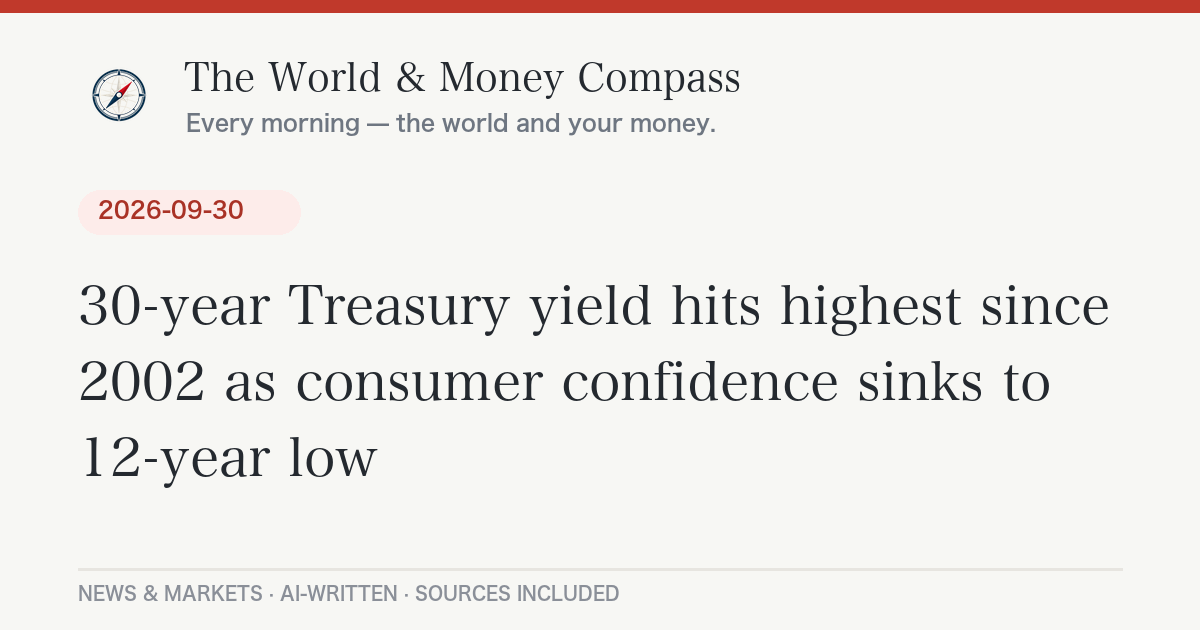
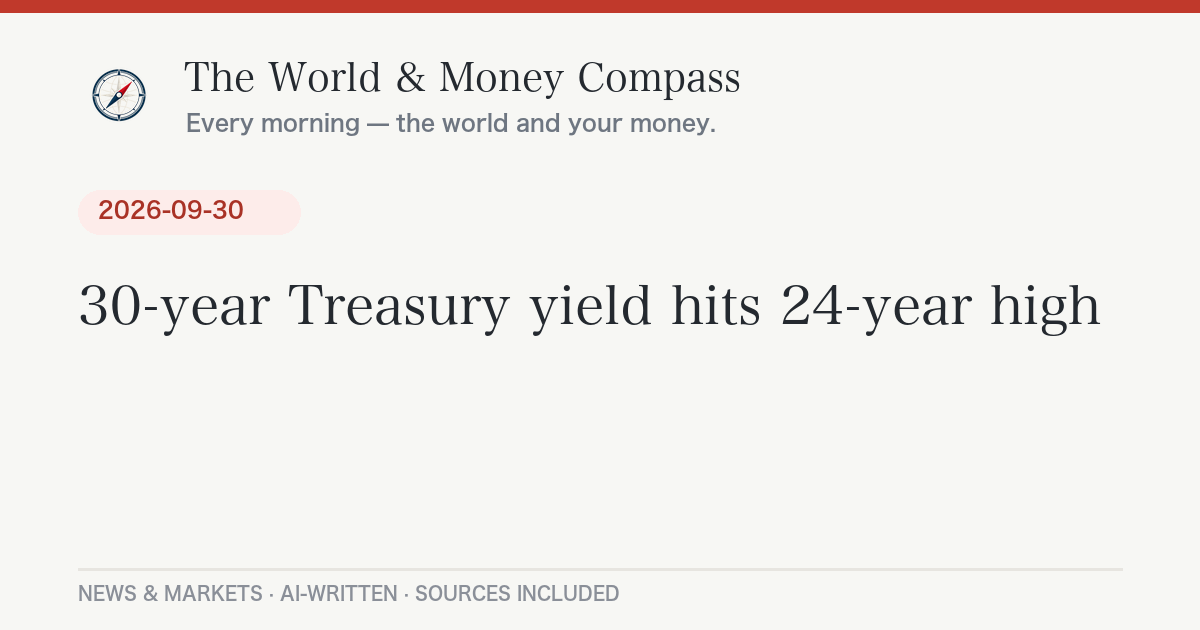
Daily briefing 2026-10-02

Changed region(s): [[0.0617, 0.573, 0.8942, 0.6333], [0.6475, 0.4524, 0.925, 0.5429], [0.0617, 0.6937, 0.3083, 0.754]]

diff --git a/_posts/2026-10-02-daily-briefing.md b/_posts/2026-10-02-daily-briefing.md
@@ -1,0 +1,107 @@
+---
+layout: post
+lang: ja
+title: "日経平均2203円高の6万8956円、米長期金利は2002年以来の高水準｜10月2日のニュースとお金"
+date: 2026-10-02 07:41:24 +0900
+categories: [ニュース, 経済]
+headline: "日経平均2203円高の6万8956円、米長期金利は2002年以来の高水準"
+permalink: /2026/10/02/daily-briefing/
+---
+
+## 今日のポイント
+
+10月最初の取引日、日経平均は半導体株に引っ張られて2,203円の大幅高となり、6万8,956円で取引を終えました。一方、米国では長期金利が一時2002年以来の高さまで上がり、英国やフランスでも国債が売られる「世界的な金利高」が続いています。株は強いのに金利も高い——そんなちぐはぐな状態が目立つ一日でした。
+
+## 今日の羅針盤（Compass Insight）
+
+きのうの相場で印象的だったのは、株と債券がまったく違う景色を見ていることです。日経平均は半導体関連の買いで2,000円を超える上げ幅になり、米国でもマイクロンの好決算を受けてハイテク株が持ち直しました。その一方で、米10年債利回りは一時5.34%と2002年以来の水準に達し、英国の30年債も1998年以来の6%に乗せました。AIという強い成長の物語が株を支える一方、原油高や各国の財政不安が「お金を借りるコスト」を押し上げている構図です。
+
+家計への影響で見ると、まず身近なのは10月1日から変わった暮らしのルールです。ビールの酒税が下がって店頭価格が下がる一方、第三のビールや発泡酒は値上がり方向です。また、世界的な金利高は、日本の固定型住宅ローン金利にも上向きの力をかけやすい状況です。円は1ドル158円前後と円安が続き、原油が再び値上がりすればガソリン代や電気代にも響きやすい状況です。
+
+短期では、今夜発表予定の米雇用統計と、それを受けた長期金利の動きに注目です。中長期では、米国とイランの交渉が行き詰まっているように見える中で、ホルムズ海峡と原油の供給がどうなるか、そして日銀短観で見えた「足元は良いが先行きは慎重」という企業の見方が、10月の日銀会合の判断にどうつながるかがポイントになりそうです。
+
+## 今日のニュース
+
+### 日本
+
+- **日銀短観、大企業製造業は6期連続の改善**：日銀が1日発表した9月の短観で、大企業・製造業の景況感はプラス24と、前回から2ポイント上がり[6四半期連続で改善](https://www.nikkei.com/article/DGXZQOUB299ZG0Z20C26A9000000/)しました。データセンターなどAI関連の需要がけん引しています。ただ予想（プラス25）には届かず、非製造業はプラス35と悪化、先行きはいずれも慎重な見方となりました（[時事ドットコム](https://www.jiji.com/jc/article?k=2026100100272&g=eco)／[OANDA](https://www.oanda.jp/lab-education/market_news/tankan-sep-2026-review/)）。
+- **10月1日から暮らしのルールが変わる**：ビール・発泡酒・第三のビールの酒税が350ミリリットルあたり54.25円に一本化され、ビールは9.1円の減税、発泡酒と第三のビールは増税になりました（[Yahoo!ニュース／ABCニュース](https://news.yahoo.co.jp/articles/33e16e04dec25b08bdbf40e1fae634d60168b198)）。年収「106万円の壁」の撤廃なども[10月1日から](https://www.nikkei.com/article/DGXZQOUA2817H0Y6A920C2000000/)実施されています。
+- **「副首都」の要件案、人口の1.2%以上**：政府がまとめた「副首都」指定の要件案に、全国の人口の1.2%以上の都市とすることが盛り込まれ、札幌・名古屋・大阪・福岡の[4市が満たす](https://news.web.nhk/newsweb/na/nd-20261002de53765)ことがわかりました。
+
+### 世界
+
+- **米国とイランの協議が停滞**：米政府関係者によると、ルビオ国務長官がアラグチ外相らイラン代表団に米国からの退去を命じました。イラン側は「出発は前から決まっていた」と[米側の説明を否定](https://www.iranintl.com/en/202610015558)しています（[Al Arabiya](https://english.alarabiya.net/News/middle-east/2026/10/01/rubio-ordered-iranian-delegation-to-leave-the-country-including-araghchi-report-)）。
+- **中国が燃料の輸出を停止**：中国の製油会社が、香港・マカオ以外への石油製品の輸出を当面停止しました。もともと戦争で品薄の世界の燃料市場がさらに引き締まるとの見方から、[原油価格が上昇](https://www.rte.ie/news/business/2026/1001/1593591-world-oil-prices/)しました。
+
+### アメリカ
+
+- **長期金利が一時5.34%に**：米10年債利回りは一時5.342%と、[2002年以来の高水準](https://qz.com/us-treasury-yield-highest-since-2002-bond-selloff-100126)をつけました。その後は5.24%程度まで下がり、株価は小幅高で引けました（[Yahoo Finance](https://finance.yahoo.com/markets/live/stock-market-today-thursday-oct-1-dow-sp-500-nasdaq-080602402.html)）。
+- **景気指標は底堅い**：9月のISM製造業景況指数は54.5と拡大を示し、新規失業保険申請件数は19万7,000件と4週連続で減りました。一方、仕入れ価格指数は77.9と上昇し、物価の圧力も残っています（[Yahoo Finance](https://finance.yahoo.com/markets/live/stock-market-today-thursday-oct-1-dow-sp-500-nasdaq-080602402.html)）。
+- **ナイキ、売上高4%減**：ナイキの6〜8月期決算は、売上高が[112億ドル](https://www.businesswire.com/news/home/20261001788082/en/NIKE-Inc.-Reports-Fiscal-2027-First-Quarter-Results)と前年同期比4%減でした。中国と欧州・中東などでの落ち込みが響き、北米は伸びました。
+
+### ヨーロッパ
+
+- **欧州でも国債売りが広がる**：英国の30年債利回りが1998年以来となる6%に達し、10年債も5.51%と2007年以来の水準に。英FTSE100は1.7%下落しました。フランスの10年債も4.94%と2002年以来の高さです（[Rio Times](https://www.riotimesonline.com/europe-intelligence-brief-thursday-october-1-2026/)）。
+- **ドイツの物価上昇率3.3%**：ドイツの9月の消費者物価は前年比3.3%と、8月の2.9%から加速し、2023年12月以来の高い伸びになりました。エネルギー価格は14.9%上がっています（[Rio Times](https://www.riotimesonline.com/europe-intelligence-brief-thursday-october-1-2026/)）。
+
+## 経済とお金の動き
+
+### 世界の経済と原油・相場
+
+| 指標 | 値 | 前日比 |
+|---|---|---|
+| 日経平均株価（10/1終値） | [68,956.72円](https://www.zaikei.co.jp/article/20261001/871968.html) | <span class="chg-up">+2,203.00円（+3.30%）</span> |
+| NYダウ（10/1終値） | [50,926.56ドル](https://finance.yahoo.com/markets/live/stock-market-today-thursday-oct-1-dow-sp-500-nasdaq-080602402.html) | <span class="chg-up">+20.51ドル（+0.04%）</span> |
+| S&P500（10/1終値） | [7,666.45](https://finance.yahoo.com/markets/live/stock-market-today-thursday-oct-1-dow-sp-500-nasdaq-080602402.html) | <span class="chg-up">+14.91（+0.19%）</span> |
+| ナスダック総合（10/1終値） | [26,871.60](https://finance.yahoo.com/markets/live/stock-market-today-thursday-oct-1-dow-sp-500-nasdaq-080602402.html) | <span class="chg-up">+10.53（+0.04%）</span> |
+| WTI原油（10/1） | [約92ドル/バレル](https://www.rte.ie/news/business/2026/1001/1593591-world-oil-prices/) | <span class="chg-up">+1.67ドル（+1.9%）</span> |
+| 北海ブレント（12月限、10/1） | [約101ドル/バレル](https://www.rte.ie/news/business/2026/1001/1593591-world-oil-prices/) | <span class="chg-up">+3.02ドル（+3%）</span> |
+| 米10年債利回り（10/1） | [5.24%](https://finance.yahoo.com/markets/live/stock-market-today-thursday-oct-1-dow-sp-500-nasdaq-080602402.html) | <span class="chg-down">-0.06ポイント</span> |
+| ドル円（ECB参照、10/1基準） | [157.98円](https://api.frankfurter.app/latest?from=USD&to=JPY) | <span class="chg-up">+0.98円（円安）</span> |
+
+※原油は取引時間中の値で、報道により時点が異なります。
+
+世界の市場では「金利」が主役です。米国・英国・フランスで長期金利がそろって数十年ぶりの水準に上がり、債券が世界的に売られています。そこへ中国の燃料輸出停止が加わり、北海ブレントは再び1バレル100ドル台に乗せました。原油高は物価を押し上げ、物価高は金利を押し上げる——この連鎖が続くかどうかが、当面の相場の大きな分かれ目です。
+
+### アメリカの経済
+
+米国の株価は、朝方は金利上昇で下げたものの、金利がピークから下がると持ち直し、3指数そろって小幅高で終えました。景気の数字は強く、失業保険の申請は減り、製造業も拡大しています。ただ、景気が強いほど「利上げはまだ終わらないのでは」という見方も強まりやすく、今夜の雇用統計が強すぎると金利が再び上がる可能性があります。
+
+### 日本の経済
+
+日経平均は、前日の米国でハイテク株が堅調だった流れを受けて、半導体関連を中心に大きく上げました。値上がりしたのは電気機器や精密機器、情報・通信で、石油・石炭製品や銀行、保険は下げました（[財経新聞](https://www.zaikei.co.jp/article/20261001/871968.html)）。値上がり銘柄と値下がり銘柄の数はほぼ半々で、上げ幅のわりに「一部の大型ハイテク株が指数を押し上げた」相場でした。短観では企業の景況感は良いものの、先行きは慎重で、日銀が10月に追加利上げに動くかどうかの判断材料として注目されます。
+
+## 今日の注目銘柄・セクター
+
+- **半導体関連（アドバンテスト、東京エレクトロン、キオクシアHDなど）**：米国の物価指標の落ち着きと、ナスダックの堅調さを受けて買われ、日経平均の大幅高をけん引しました（[財経新聞](https://www.zaikei.co.jp/article/20261001/871968.html)）。
+- **マイクロン（米）**：前日に発表した好決算と強い見通しを受けて上昇し、半導体株全体の支えになりました（[Yahoo Finance](https://finance.yahoo.com/markets/live/stock-market-today-thursday-oct-1-dow-sp-500-nasdaq-080602402.html)）。
+- **ビール大手（アサヒ、キリン、サッポロ）**：10月1日の酒税一本化で、主力ビールの値下げや第三のビールの「ビール化」に動いており、販売の構図が変わるかが注目されます（[日本経済新聞](https://www.nikkei.com/article/DGXZQOUC212KR0R20C26A8000000/)）。
+- **米銀行株**：金利の急上昇を受けて、KBW銀行株指数は0.7%下落しました（[Yahoo Finance](https://finance.yahoo.com/markets/live/stock-market-today-thursday-oct-1-dow-sp-500-nasdaq-080602402.html)）。
+
+*※特定銘柄の売買を推奨するものではありません。投資判断はご自身の責任で。*
+
+## まとめ：注目の3つ
+
+1. **今夜の米雇用統計**：強すぎる結果なら、2002年以来の水準にある長期金利がさらに上がる可能性。
+2. **原油と中国の燃料輸出停止**：ブレントは再び100ドル台。ガソリン・電気代など家計への波及に注意。
+3. **日銀の10月会合**：短観は「足元は良いが先行きは慎重」。追加利上げの判断に注目。
+
+---
+<div class="post-sources" markdown="1">
+
+**出典：**
+- [日本経済新聞・大企業製造業の景況感、6四半期連続改善 日銀9月短観](https://www.nikkei.com/article/DGXZQOUB299ZG0Z20C26A9000000/)
+- [時事ドットコム・製造業景況感、6期連続改善](https://www.jiji.com/jc/article?k=2026100100272&g=eco)
+- [日本経済新聞・10月1日こう変わる](https://www.nikkei.com/article/DGXZQOUA2817H0Y6A920C2000000/)
+- [NHK・「副首都」要件案判明](https://news.web.nhk/newsweb/na/nd-20261002de53765)
+- [財経新聞・日経平均は大幅続伸](https://www.zaikei.co.jp/article/20261001/871968.html)
+- [Yahoo Finance・Stock market today Oct. 1](https://finance.yahoo.com/markets/live/stock-market-today-thursday-oct-1-dow-sp-500-nasdaq-080602402.html)
+- [Quartz・U.S. 10-year Treasury yield hits highest level since 2002](https://qz.com/us-treasury-yield-highest-since-2002-bond-selloff-100126)
+- [RTÉ・Oil prices rise $3 as China suspends fuel exports](https://www.rte.ie/news/business/2026/1001/1593591-world-oil-prices/)
+- [Iran International・Rubio ordered Araghchi delegation out](https://www.iranintl.com/en/202610015558)
+- [Business Wire・NIKE, Inc. Reports Fiscal 2027 First Quarter Results](https://www.businesswire.com/news/home/20261001788082/en/NIKE-Inc.-Reports-Fiscal-2027-First-Quarter-Results)
+- 市場データ: [frankfurter API](https://api.frankfurter.app/) ／ Yahoo Finance ほか
+
+*本記事は公開情報をもとに作成しています。*
+
+</div>

diff --git a/_posts/2026-10-02-daily-briefing-en.md b/_posts/2026-10-02-daily-briefing-en.md
@@ -1,0 +1,52 @@
+---
+layout: post
+lang: en
+title: "10-year Treasury yield touches highest since 2002 as stocks eke out gains — October 2, 2026"
+date: 2026-10-02 07:41:24 +0900
+headline: "10-year Treasury yield touches highest since 2002 as stocks eke out gains"
+permalink: /2026/10/02/daily-briefing/
+---
+
+## Top U.S. Stories
+
+- **Bond selloff pushes yields to a 24-year high.** The 10-year Treasury yield hit as high as [5.342%](https://qz.com/us-treasury-yield-highest-since-2002-bond-selloff-100126), its highest since early 2002, before easing to about 5.24% by the close ([Yahoo Finance](https://finance.yahoo.com/markets/live/stock-market-today-thursday-oct-1-dow-sp-500-nasdaq-080602402.html)).
+  *Why it matters:* Mortgage, auto and corporate borrowing costs are tied to this benchmark, and the selloff is global — U.K. and French yields also hit multi-decade highs.
+- **Stocks recover to close slightly higher.** The S&P 500 rose 0.19% to 7,666.45, the Dow added 20.51 points and the Nasdaq edged up 0.04% as yields retreated from their peak ([Yahoo Finance](https://finance.yahoo.com/markets/live/stock-market-today-thursday-oct-1-dow-sp-500-nasdaq-080602402.html)).
+- **Factory and labor data stay firm.** The ISM manufacturing index came in at 54.5, initial jobless claims fell to 197,000 for a fourth straight weekly decline, and the ISM prices-paid gauge jumped to 77.9 ([Yahoo Finance](https://finance.yahoo.com/markets/live/stock-market-today-thursday-oct-1-dow-sp-500-nasdaq-080602402.html)).
+  *Why it matters:* Strong data plus rising input costs keep pressure on the Fed ahead of Friday's jobs report.
+- **China halts fuel exports, oil jumps.** Chinese refiners suspended oil-product exports beyond Hong Kong and Macau, lifting December Brent about 3% to roughly $101 and WTI to about $92 ([RTÉ](https://www.rte.ie/news/business/2026/1001/1593591-world-oil-prices/)).
+- **Iran talks stall.** U.S. officials said Secretary of State Marco Rubio ordered Iran's UN delegation, including Foreign Minister Abbas Araghchi, to leave the country; Tehran disputes that account ([Iran International](https://www.iranintl.com/en/202610015558)).
+- **Nike sales slip 4%.** Fiscal first-quarter revenue was [$11.2 billion](https://www.businesswire.com/news/home/20261001788082/en/NIKE-Inc.-Reports-Fiscal-2027-First-Quarter-Results), down 4%, on weakness in Greater China and EMEA, partly offset by growth in North America.
+
+## Compass Insight
+
+Thursday showed two markets telling different stories. Equities, led by chipmakers riding Micron's strong results, kept climbing — Japan's Nikkei jumped more than 2,200 points. Bonds, meanwhile, are flashing a warning: yields in the U.S., U.K. and France all reached levels not seen in decades. The common thread is cost pressure — oil back near $100 for Brent, firm factory prices and heavy government borrowing. As long as AI earnings stay strong, stocks can absorb higher rates, but that cushion is thinner when the 10-year sits above 5%. In the short term, Friday's jobs report is the key test: a hot number could send yields back toward their highs. Longer term, watch whether stalled U.S.–Iran diplomacy and China's export halt keep fuel markets tight.
+
+## Markets
+
+- Dow: [50,926.56](https://finance.yahoo.com/markets/live/stock-market-today-thursday-oct-1-dow-sp-500-nasdaq-080602402.html) (+20.51, +0.04%); S&P 500: 7,666.45 (+0.19%); Nasdaq: 26,871.60 (+0.04%).
+- Nikkei 225: [68,956.72](https://www.zaikei.co.jp/article/20261001/871968.html) (+2,203.00), led by semiconductor stocks.
+- U.K. 30-year gilt yield touched 6% for the first time since 1998; the FTSE 100 fell 1.7% ([Rio Times](https://www.riotimesonline.com/europe-intelligence-brief-thursday-october-1-2026/)).
+- USD/JPY: [157.98](https://api.frankfurter.app/latest?from=USD&to=JPY) (ECB reference, Oct. 1).
+
+## Stocks in Focus
+
+- **Micron (MU):** Gained after its record quarter and upbeat guidance, supporting chip stocks broadly.
+- **Bank stocks:** The KBW Bank Index fell 0.7% as rates jumped ([Yahoo Finance](https://finance.yahoo.com/markets/live/stock-market-today-thursday-oct-1-dow-sp-500-nasdaq-080602402.html)).
+- **Nike (NKE):** Reported a 4% revenue decline after the bell, with Converse sales down 28%.
+
+<div class="post-sources" markdown="1">
+
+**Sources:**
+- [Yahoo Finance — Stock market today, Oct. 1](https://finance.yahoo.com/markets/live/stock-market-today-thursday-oct-1-dow-sp-500-nasdaq-080602402.html)
+- [Quartz — 10-year Treasury yield hits highest level since 2002](https://qz.com/us-treasury-yield-highest-since-2002-bond-selloff-100126)
+- [RTÉ — Oil prices rise $3 as China suspends fuel exports](https://www.rte.ie/news/business/2026/1001/1593591-world-oil-prices/)
+- [Iran International — Rubio ordered Araghchi delegation out](https://www.iranintl.com/en/202610015558)
+- [Business Wire — Nike fiscal 2027 first-quarter results](https://www.businesswire.com/news/home/20261001788082/en/NIKE-Inc.-Reports-Fiscal-2027-First-Quarter-Results)
+- [Rio Times — Europe Intelligence Brief, Oct. 1](https://www.riotimesonline.com/europe-intelligence-brief-thursday-october-1-2026/)
+- [Zaikei — Nikkei close, Oct. 1](https://www.zaikei.co.jp/article/20261001/871968.html)
+- Market data: [frankfurter API](https://api.frankfurter.app/) / Yahoo Finance
+
+</div>
+
+*Auto-generated and AI-written. Not investment advice.*
